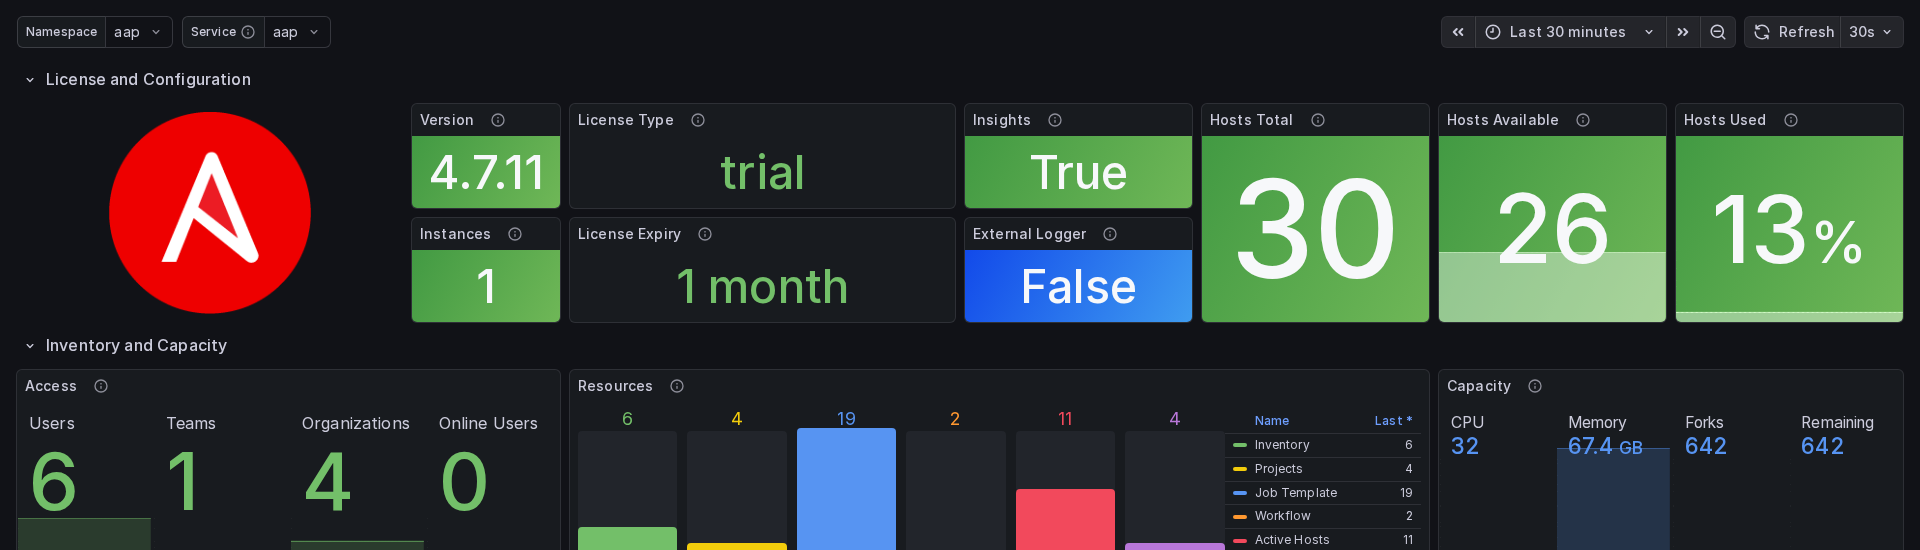
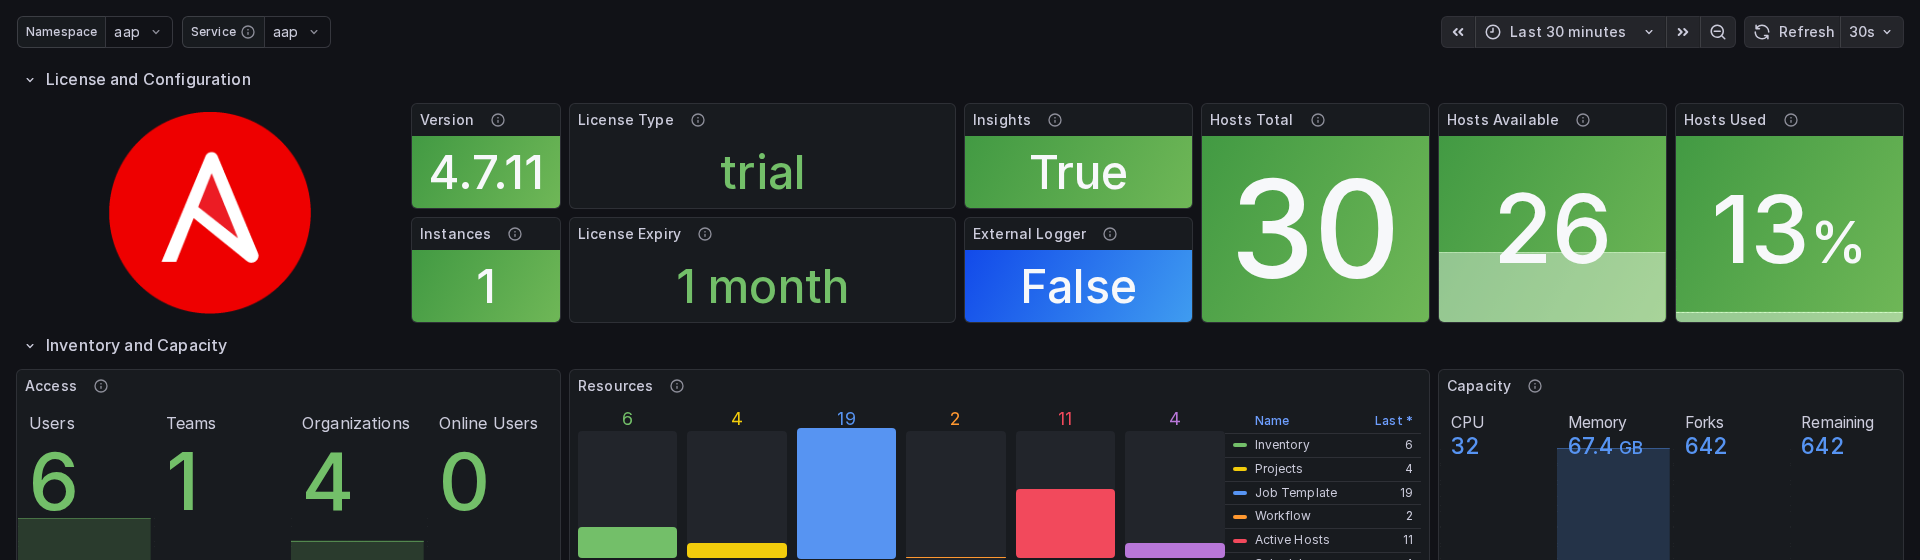
docs: clean screenshots with no black space, no overlap, no cuts

diff --git a/README.md b/README.md
@@ -572,13 +572,9 @@ grafana-dashboard-aap-health                           3s            1m
 
 - **AAP - Health & Monitoring** Dashboard
 
-![Components and Operators](images/health-01-components.png)
+![Health Dashboard - Components, Operators, Services, Jobs](images/health-dashboard-top.png)
 &nbsp;
-![Service Accessibility and Jobs Status](images/health-02-jobs.png)
-&nbsp;
-![Latency and Resource Health](images/health-04-resources.png)
-&nbsp;
-![Event Processing](images/health-05-events.png)
+![Health Dashboard - Latency, Resource Health, Event Processing](images/health-dashboard-bottom.png)
 
 &nbsp;
 
